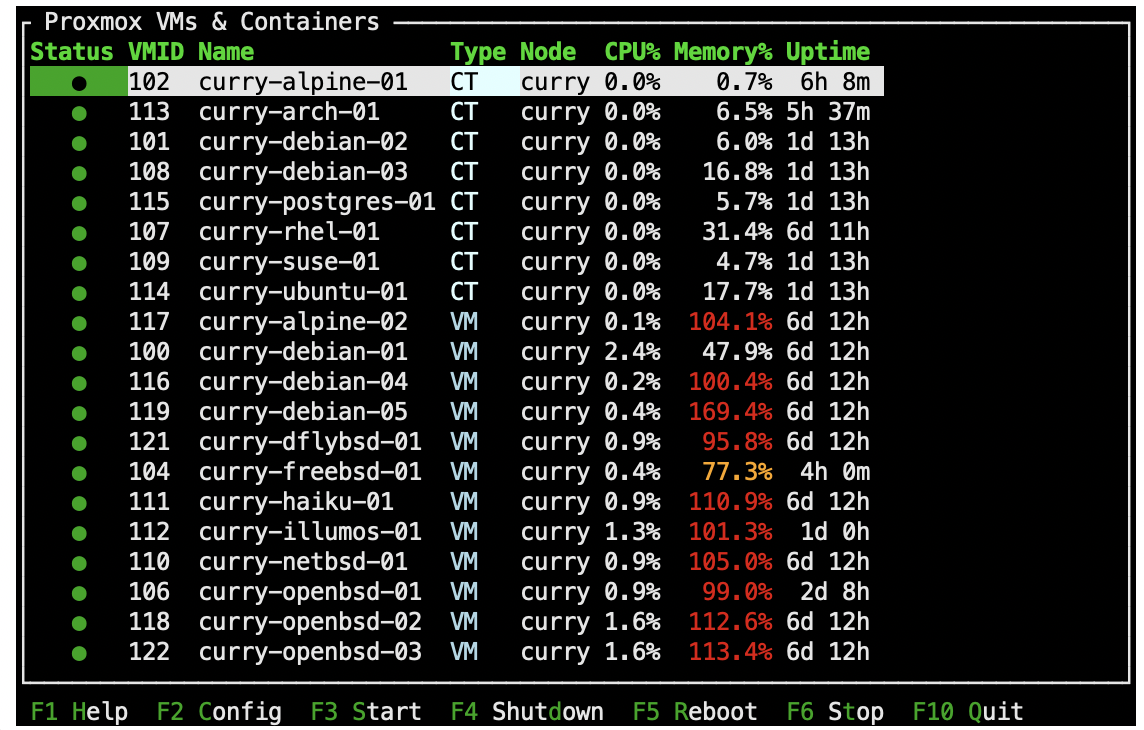
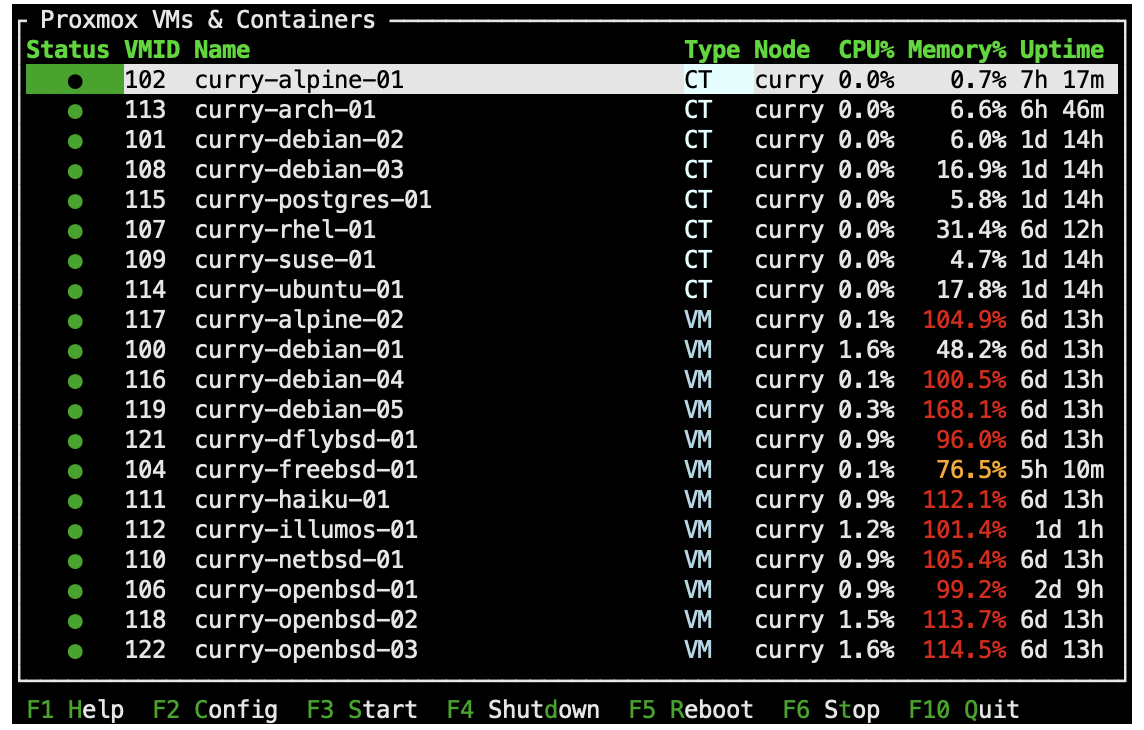
fixed better layout for columns

Changed region(s): [[0.0, 0.0, 1.0, 0.9945]]

diff --git a/pkg/ui/mainlist/mainlist.go b/pkg/ui/mainlist/mainlist.go
@@ -215,6 +215,12 @@ func (ml *MainList) updateTable() {
 			SetAlign(tview.AlignLeft).
 			SetSelectable(false).
 			SetAttributes(tcell.AttrBold)
+		
+		// Make the Name column (index 2) expandable
+		if col == 2 {
+			cell.SetExpansion(1)
+		}
+		
 		ml.table.SetCell(0, col, cell)
 	}
 
@@ -230,10 +236,11 @@ func (ml *MainList) updateTable() {
 			SetTextColor(colors.Current.Foreground).
 			SetAlign(tview.AlignLeft))
 
-		// Name
+		// Name (expandable to take remaining space)
 		ml.table.SetCell(row, 2, tview.NewTableCell(node.Name).
 			SetTextColor(colors.Current.Foreground).
-			SetAlign(tview.AlignLeft))
+			SetAlign(tview.AlignLeft).
+			SetExpansion(1)) // This makes the column expand to fill available space
 
 		// Type
 		ml.table.SetCell(row, 3, getTypeCell(models.NodeType(node.Type)))
